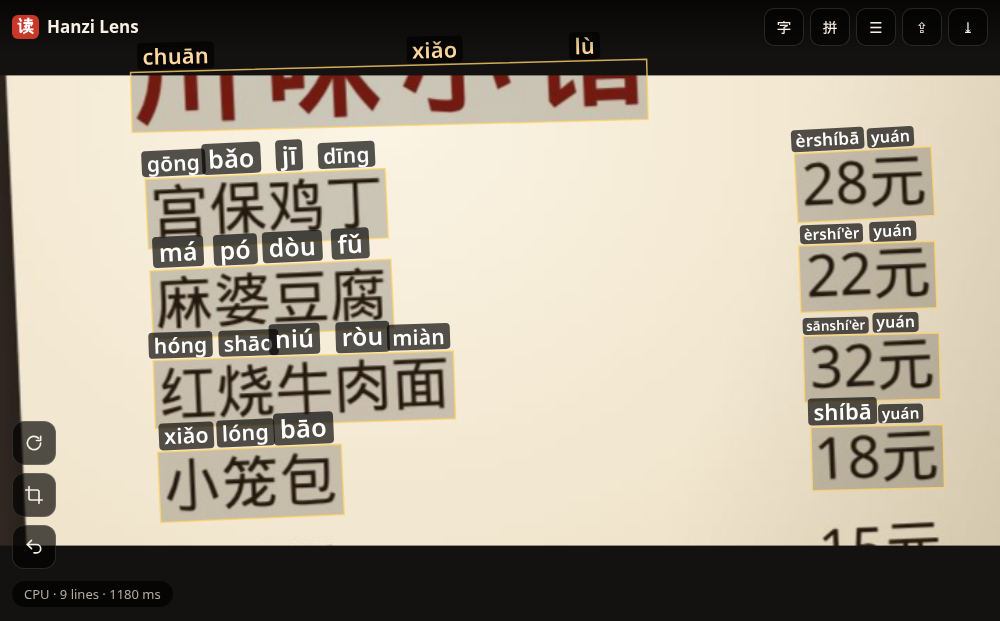
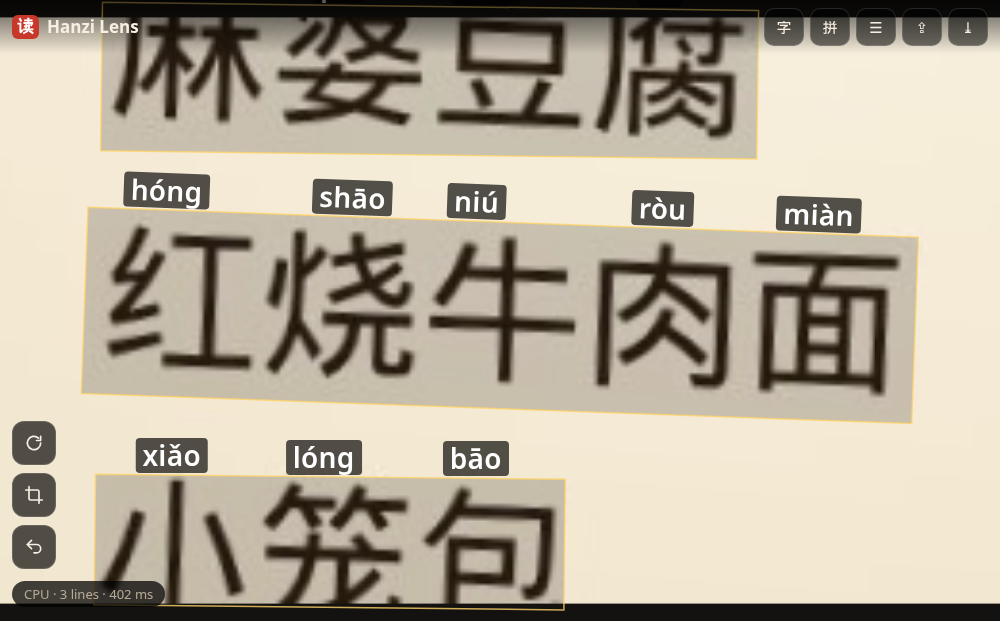
Hanzi Lens: straighten a crop before reading it
A crop cut from a turned view kept the view's angle, and the detector reads
tilted text badly (a crop of 红烧牛肉面 in a view turned 20 deg read as noise).
The crop now gets a detector-only pass first; skewOf takes the length-weighted
median of its lines' reading directions, folded into -45..45 deg, and the crop
is turned level about its middle when that is more than 1.5 deg off. The
picture around the crop fills the corners the turn opens.

diff --git a/vibes/hanzi-lens/app.js b/vibes/hanzi-lens/app.js
@@ -9,7 +9,7 @@
  * tapping a line opens its words with pinyin and CC-CEDICT meanings.
  */
 import { parseDict, annotate, linePinyin, meanings, joinPinyin, markPinyin, pickVoice, lookup } from './text.js';
-import { crowded } from './ocr.js';
+import { crowded, skewOf } from './ocr.js';
 
 const $ = (id) => document.getElementById(id);
 const video = $('video'), still = $('still'), boxesSvg = $('boxes'), labels = $('labels');
@@ -601,7 +601,7 @@ if (!navigator.mediaDevices?.getUserMedia) $('camBtn').hidden = true;
     el.querySelector('button').onclick = () => { navigator.clipboard?.writeText(el.querySelector('pre').textContent); status('Copied'); };
   }
 }
-const BUILD = 'v15';   // shown on the start screen; keep in step with sw.js VERSION
+const BUILD = 'v16';   // shown on the start screen; keep in step with sw.js VERSION
 $('build').textContent = `build ${BUILD}`;
 if ('serviceWorker' in navigator && !params.has('nosw')) {
   navigator.serviceWorker.register('sw.js', { updateViaCache: 'none' }).catch(() => {});
@@ -727,21 +727,38 @@ addEventListener('resize', () => { if (S.view === 'frozen' && S.frozen) S.vm = s
  * w x h canvas, as a new picture to read. A picture made from a crop of a turned view is
  * straight. Outside the old picture is mid grey.
  */
-async function remake(m, w, h) {
+async function remake(m, w, h, { straighten = false } = {}) {
   if (!S.orig) { const c = document.createElement('canvas'); c.width = still.width; c.height = still.height; c.getContext('2d').drawImage(still, 0, 0); S.orig = c; }
   const c = document.createElement('canvas');
   c.width = Math.max(16, Math.round(w)); c.height = Math.max(16, Math.round(h));
   const g = c.getContext('2d');
-  g.fillStyle = '#808080'; g.fillRect(0, 0, c.width, c.height);
-  g.imageSmoothingQuality = 'high';
-  g.setTransform(...m);
-  g.drawImage(still, 0, 0);
-  const bitmap = await createImageBitmap(c);
-  c.width = c.height = 0;
+  const paint = (mm) => {
+    g.setTransform(1, 0, 0, 1, 0, 0);
+    g.fillStyle = '#808080'; g.fillRect(0, 0, c.width, c.height);
+    g.imageSmoothingQuality = 'high';
+    g.setTransform(...mm);
+    g.drawImage(still, 0, 0);
+  };
+  paint(m);
   // a small crop is scaled up for the detector no more than 2 times: blown up to 1280 px, a
   // crop of a line or two gives the detector characters far larger than it was trained on
-  const long = Math.max(bitmap.width, bitmap.height);
-  await freeze(bitmap, { edited: true, detLong: Math.min(FREEZE_DET, Math.max(640, 2 * long)) });
+  const detLong = Math.min(FREEZE_DET, Math.max(640, 2 * Math.max(c.width, c.height)));
+  if (straighten) {
+    // the detector reads level text best: find the lines' angle with a pass that only finds
+    // them, and turn the crop about its middle by that much. The picture around the crop
+    // fills the corners the turn opens, where there is any.
+    status(`${S.ep} · straightening…`);
+    $('shutter').classList.add('busy'); draw();
+    const probe = await createImageBitmap(c);
+    let t = null;
+    try { t = skewOf((await call({ type: 'frame', id: ++S.frame, bitmap: probe, detLong, read: false }, [probe])).lines); }
+    catch (err) { trace('crop skew: ' + err.message); }
+    trace(`crop skew ${t == null ? 'none' : ((t * 180) / Math.PI).toFixed(1) + ' deg'}`);
+    if (t != null && Math.abs(t) > (1.5 * Math.PI) / 180) paint(mul(around([c.width / 2, c.height / 2], 1, -t), m));
+  }
+  const bitmap = await createImageBitmap(c);
+  c.width = c.height = 0;
+  await freeze(bitmap, { edited: true, detLong });
 }
 
 $('rotBtn').onclick = () => {
@@ -818,5 +835,5 @@ $('cropOk').onclick = () => {
   k = Math.min(k, MAX_PHOTO / Math.max(r.w, r.h));
   const m = mul([k, 0, 0, k, -r.x * k, -r.y * k], f.m);
   endCrop();
-  remake(m, r.w * k, r.h * k);
+  remake(m, r.w * k, r.h * k, { straighten: true });
 };

diff --git a/vibes/hanzi-lens/hanzi-lens.test.js b/vibes/hanzi-lens/hanzi-lens.test.js
@@ -4,7 +4,7 @@ import assert from 'node:assert/strict';
 import fs from 'fs';
 import zlib from 'zlib';
 import { parseDict, markSyllable, markPinyin, joinPinyin, readNumber, readTime, annotate, linePinyin, bestEntry, pickVoice } from './text.js';
-import { detSize, detSizeStretched, minAreaRect, rectQuad, dbBoxes, ctcDecode, parseRecDict, recTensor, readingOrder, mergeGrid, crowded, bands, gridSpans } from './ocr.js';
+import { detSize, detSizeStretched, minAreaRect, rectQuad, dbBoxes, ctcDecode, parseRecDict, recTensor, readingOrder, mergeGrid, crowded, bands, gridSpans, skewOf } from './ocr.js';
 
 const dict = parseDict(zlib.gunzipSync(fs.readFileSync(new URL('./dict/cedict.txt.gz', import.meta.url))).toString('utf8'));
 
@@ -226,4 +226,17 @@ test('lookup by Chinese, pinyin with or without tones, and English', async () =>
   assert.equal(first('to eat'), '吃');
   assert.equal(lookup(d, 'eat')[0].entry.defs[0], 'to eat; to consume', 'the real sense before the variant');
   assert.deepEqual(lookup(d, '  '), []);
+});
+
+test('skewOf: the angle of the lines, folded to a quarter turn, by length', () => {
+  const deg = (t) => Math.round((t * 180) / Math.PI);
+  const line = (cx, cy, a, w = 200, h = 30) => rectQuad({ cx, cy, ux: Math.cos(a), uy: Math.sin(a), w, h });
+  const r = (d) => (d * Math.PI) / 180;
+  assert.equal(deg(skewOf([line(100, 100, r(20)), line(100, 200, r(21)), line(100, 300, r(19))])), 20);
+  assert.equal(deg(skewOf([line(100, 100, r(-10))])), -10);
+  // a column turned the same way gives the same angle; a stray short box doesn't move it
+  const col = rectQuad({ cx: 50, cy: 50, ux: Math.cos(r(20)), uy: Math.sin(r(20)), w: 30, h: 200 });
+  assert.ok(col.vertical);
+  assert.equal(deg(skewOf([col, line(100, 100, r(20)), line(0, 0, r(-40), 60, 25)])), 20);
+  assert.equal(skewOf([line(0, 0, 0, 30, 30)]), null, 'a square box says nothing');
 });

diff --git a/vibes/hanzi-lens/smoke.js b/vibes/hanzi-lens/smoke.js
@@ -165,6 +165,18 @@ try {
     await sleep(200);
     check('tapping a line in a turned view opens it', await b.evaluate(`__hl.S.sel && __hl.S.sel.text === ${JSON.stringify(want)}`), want);
     await tap('#closeBtn');
+    // a crop of the turned view: straightened, then read
+    await tap('#cropBtn');
+    await b.evaluate(`(()=>{const r=document.querySelectorAll('#boxes polygon')[${ti}].getBoundingClientRect(); __hl.S.crop={x:r.x-40,y:r.y-40,w:r.width+80,h:r.height+80}; return 1})()`);
+    await tap('#cropOk');
+    await sleep(300);
+    await readDone();
+    const turned = await b.evaluate(`({text:__hl.S.frozen.lines.map(l=>l.text), skew:JSON.parse(localStorage.getItem('hl-trace')).steps.filter(x=>/crop skew/.test(x)).pop()})`);
+    check('a crop of a turned view is straightened and read', turned.text.includes(want), `${turned.skew}: ${turned.text.join(' / ')}`);
+    await shot('cropped');
+    await tap('#revertBtn');
+    await sleep(300);
+    await readDone();
     // a crop of what shows, zoomed in on a line: read again
     await tap('#fitBtn');
     await sleep(400);
@@ -177,7 +189,6 @@ try {
     await readDone();
     const cropped = await b.evaluate(`({w:__hl.S.frozen.w, h:__hl.S.frozen.h, text:__hl.S.frozen.lines.map(l=>l.text), orig:!!__hl.S.orig})`);
     check('a crop is read again', cropped.text.includes('宫保鸡丁') && cropped.orig && cropped.w < 1200, `${cropped.w}x${cropped.h}: ${cropped.text.join(' / ')}`);
-    await shot('cropped');
     await tap('#revertBtn');
     await sleep(300);
     await readDone();

diff --git a/vibes/hanzi-lens/ocr.js b/vibes/hanzi-lens/ocr.js
@@ -339,6 +339,31 @@ export function mergeGrid(base, stretched) {
   return keep.filter((a) => !covered(a)).concat(added.map((s) => s.b));
 }
 
+// ---- skew ----
+
+/**
+ * How far the text of a picture is turned from level, in radians (clockwise on screen is
+ * positive), from its line boxes: each line's reading direction (a column's less a quarter
+ * turn), folded into -45..45 deg, and the median of them weighted by line length, so a few
+ * stray boxes don't move it. Null with no line at least twice as long as it is thick.
+ */
+export function skewOf(boxes) {
+  const v = [];
+  for (const b of boxes) {
+    const [o, a] = b.quad, { len, thick } = quadSize(b.quad);
+    if (len < 2 * thick) continue;
+    let t = Math.atan2(a[1] - o[1], a[0] - o[0]) - (b.vertical ? Math.PI / 2 : 0);
+    t = ((t + Math.PI / 4) % (Math.PI / 2) + Math.PI / 2) % (Math.PI / 2) - Math.PI / 4;
+    v.push([t, len]);
+  }
+  if (!v.length) return null;
+  v.sort((x, y) => x[0] - y[0]);
+  const half = v.reduce((s, x) => s + x[1], 0) / 2;
+  let acc = 0;
+  for (const [t, w] of v) { acc += w; if (acc >= half) return t; }
+  return v[v.length - 1][0];
+}
+
 // ---- room for pinyin ----
 
 /**

diff --git a/vibes/hanzi-lens/sw.js b/vibes/hanzi-lens/sw.js
@@ -4,7 +4,7 @@
  * to exact versions, so they are kept cache-first once fetched: after the first run the
  * app works offline. Bump VERSION when the shell's file list changes.
  */
-const VERSION = 'hanzi-lens-v15';
+const VERSION = 'hanzi-lens-v16';
 const ASSETS = 'hanzi-lens-assets-v1';   // pinned third-party files, kept across app updates
 const SHELL = ['./', './index.html', './style.css', './app.js', './text.js', './ocr.js', './worker.js', './assets.js',
   './dict/cedict.txt.gz', './sample.jpg', './manifest.webmanifest', '../pwa/install.js', './icon.svg', './icon-192.png', './icon-512.png'];

diff --git a/CHANGELOG.md b/CHANGELOG.md
@@ -1,6 +1,7 @@
 # Logs
 
 9 Nov 2026
+- Hanzi Lens: a crop is straightened before it's read (a detector-only pass, the length-weighted median angle of its lines, turned level when more than 1.5 deg off)
 - Hanzi Lens photo view: pinch zoom, pan, two-finger rotate (12° dead zone, snaps to quarter turns), double tap, trackpad pinch and wheel; the picture is placed by one matrix that the boxes, pinyin and taps share, and pinyin turns with its line. Edit tools: turn a quarter and read again, crop (corners, edges, move) and read that part, fit, back to the whole picture; a small crop is scaled up at most 2x for the detector. 8 new smoke checks with CDP touch and wheel input
 - Hanzi Lens dictionary pane (字, `d`, or Dictionary on the start screen): look up by 汉字, pinyin with or without tones, or English, common words first (ranked by how many CEDICT words use each character, rare senses after), results open all their meanings like a line's words. Install app button on the start screen, page zoom locked on phones (iOS pinch gestures stopped too)
 - Hanzi Lens on the GPU: the worker is closed after each full read, freeing its GPU device, buffers and WASM heap (iOS Safari killed the tab about 10 s after a read on WebGPU, idle, while CPU ran on), and made again for the next read; `?ep=split` puts the detector on the CPU and the recogniser on the GPU; ONNX Runtime's WebGPU buffer cache set to `lazyRelease`, so each run's buffers are freed once it is done instead of kept for every input size seen (releasing the sessions, tried first, didn't free that cache, which the GPU device holds); the crash trace records every line read on the GPU; `tools/gpu-smoke.mjs` reads the sample twice on WebGPU headless

diff --git a/vibes/hanzi-lens/README.md b/vibes/hanzi-lens/README.md
@@ -32,7 +32,7 @@ build by default). The smoke test needs the network on its first run to fetch th
   the copy button copies it, ☰ (or `l`) lists all the text with pinyin. Shutter again goes back to live.
 - **Open a photo** (⇪ or `o`), paste or drop an image: the same frozen view.
 - **In the frozen view:** pinch to zoom, drag to pan, turn two fingers to rotate (past 12°, so a zoom doesn't tilt it; it snaps to a quarter turn within 8°), double tap to zoom in or back out. On a desktop: a trackpad pinch or ctrl/alt + wheel zooms, a wheel or two-finger scroll pans, `+` `-` `0`. The boxes and pinyin follow the picture, and pinyin turns with each line. Zooming into a dense page gives each line room, so its pinyin shows.
-- **Edit tools** on the left: turn the picture a quarter (`r`) and read it again, crop (`c`) and read just that part (drag the corners, edges or inside of the box; the crop is cut from what shows, so a crop of a turned view comes out turned), fit to the screen, and back to the whole picture.
+- **Edit tools** on the left: turn the picture a quarter (`r`) and read it again, crop (`c`) and read just that part (drag the corners, edges or inside of the box; the crop is cut from what shows, then straightened: a detector-only pass measures the lines' angle and the crop is turned level before it's read), fit to the screen, and back to the whole picture.
 - On a dense page, such as a full menu where the lines touch, only the line you tap gets
   pinyin, so the labels don't cover the text. `?dense=1` or `?dense=0` forces it either way.
 - **拼** (or `p`) switches between pinyin and outlines only.
